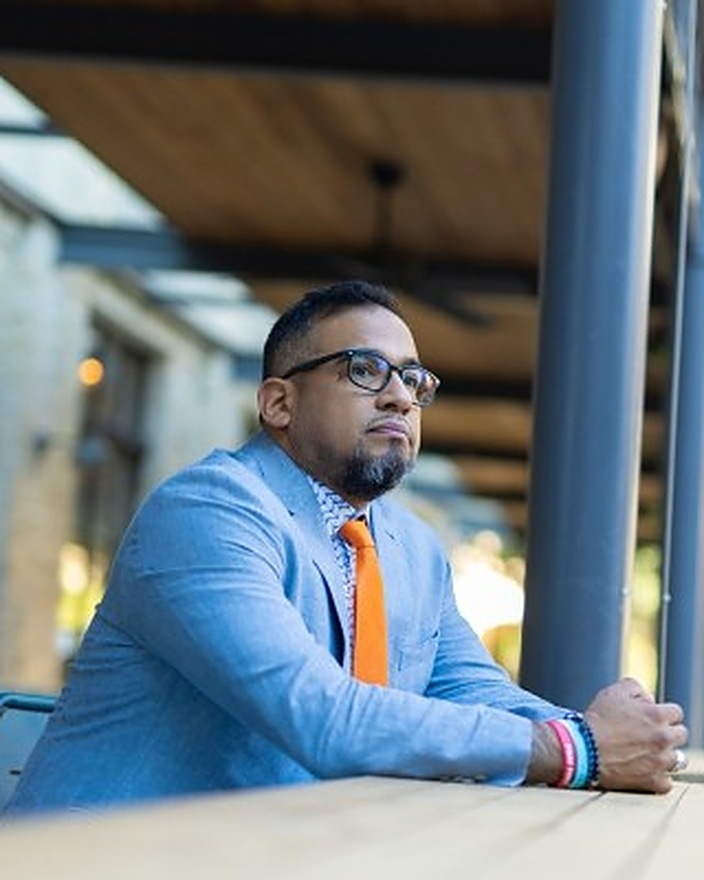
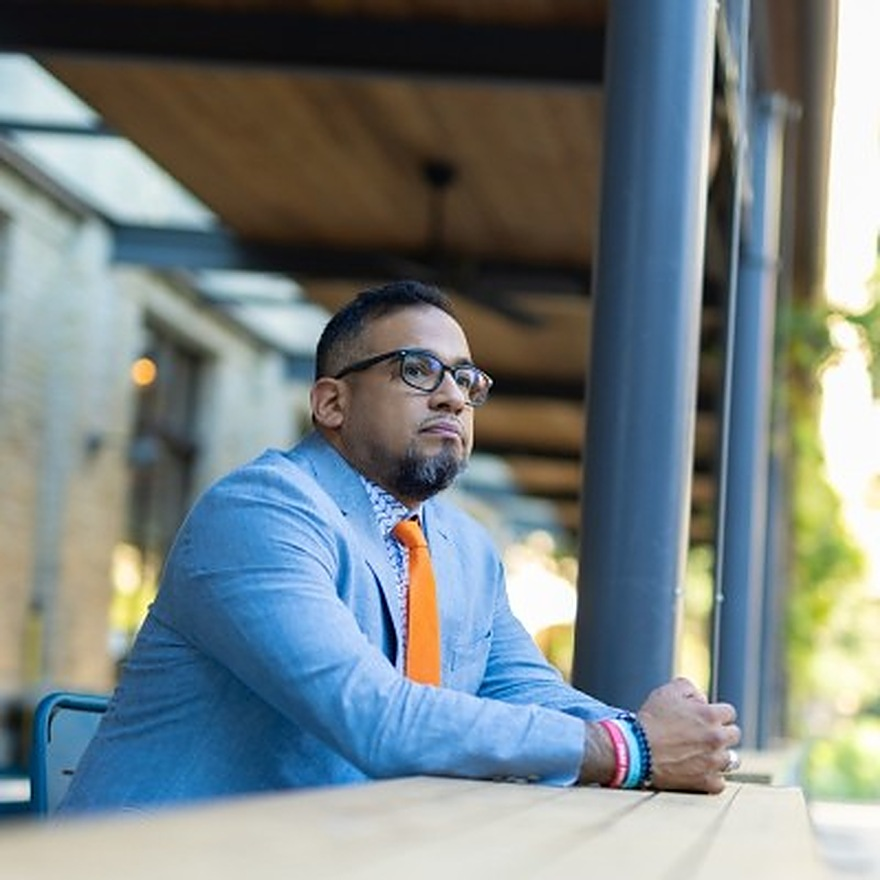
Art: full square photo + square frame

diff --git a/index.html b/index.html
@@ -187,7 +187,7 @@ section{padding:116px 0;position:relative;z-index:1}
 .story{background:var(--ink-deep)}
 .story-grid{display:grid;grid-template-columns:0.85fr 1.15fr;gap:60px;align-items:center}
 @media(max-width:940px){.story-grid{grid-template-columns:1fr;gap:40px}}
-.story-photo{position:relative;border-radius:10px;overflow:hidden;aspect-ratio:4/5;border:1px solid var(--border)}
+.story-photo{position:relative;border-radius:10px;overflow:hidden;aspect-ratio:1/1;border:1px solid var(--border)}
 .story-photo img{width:100%;height:100%;object-fit:cover;filter:saturate(0.98) contrast(1.03)}
 .story-photo .ph-flag{position:absolute;bottom:14px;left:14px;right:14px;font-size:10px;color:var(--cream);background:rgba(10,9,8,0.82);padding:8px 12px;border-radius:5px;letter-spacing:0.04em;text-align:center;backdrop-filter:blur(6px)}
 .story p{font-size:16px;color:var(--text-muted);line-height:1.75;margin-bottom:18px;font-weight:300}